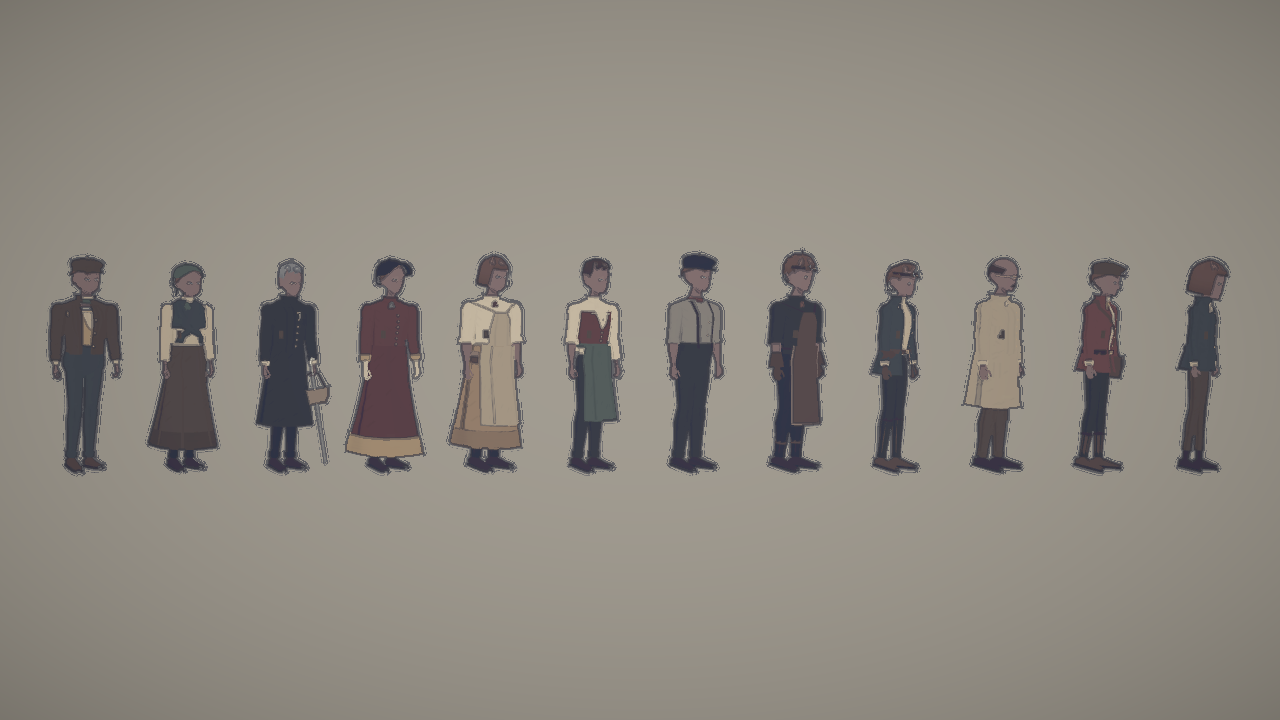
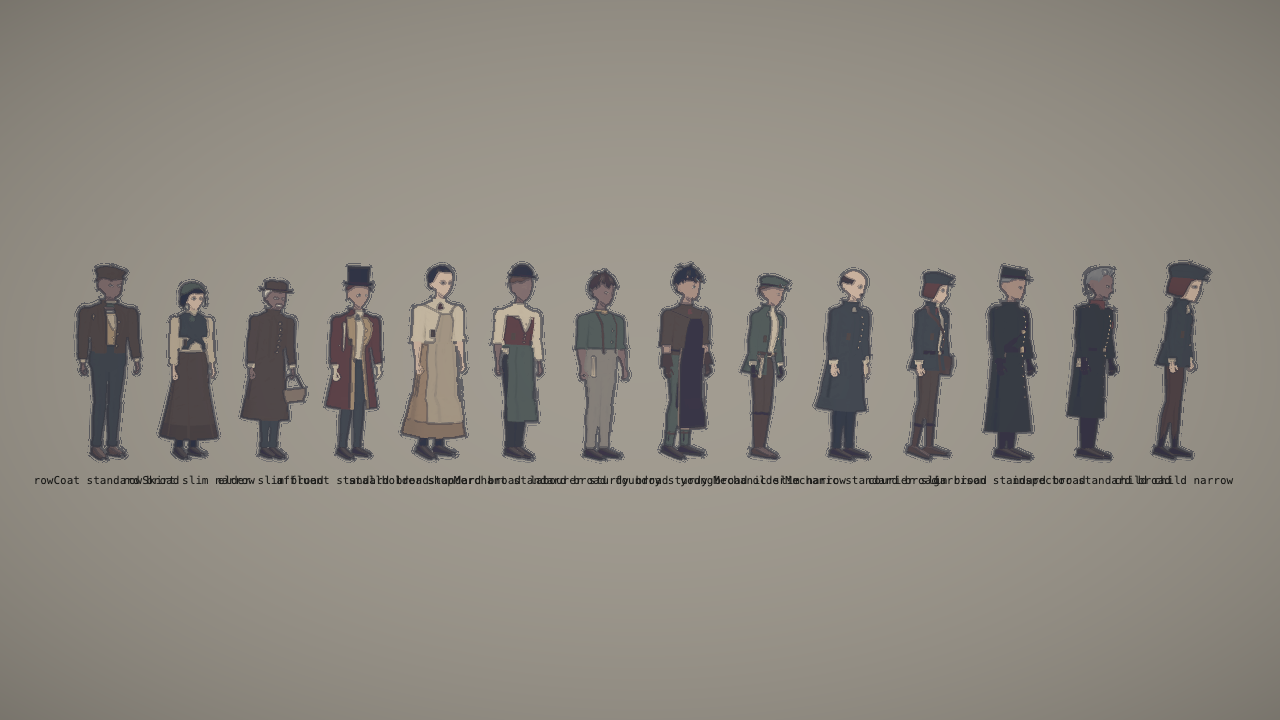
People XIII b: the bonnet takes the trim colour (it was the hair's colour and vanished), the Book brought up to what is built (materials, the wardrobe, the story table, trouser colours, the knee hinge and the bite, the 6,800 budget), and the captures regenerated — all fourteen casts, the Ordinance, 

Changed region(s): [[0.0312, 0.3361, 0.9688, 0.6722]]

diff --git a/src/world/people/figure.ts b/src/world/people/figure.ts
@@ -46,7 +46,7 @@ export function buildFigure(look: Look, opts: FigureOpts, kit: Kit) {
 
   // ---- what each cast wears
   const shirtM = col(lab ? pal.shirt : P.cloth.bone), trouM = col(pal.trousers), leather = kit.plain(P.cloth.leather, undefined, 'leather'), leatherDark = kit.plain(P.cloth.leatherDark, undefined, 'leather'), soot = sw('soot');
-  const coatM = lab ? shirtM : col(pal.coat), vestM = col(lab ? pal.shirt : pal.waistcoat), capM = fresh ? kit.cloth(pal.cap ?? pal.hat ?? pal.kepi ?? pal.helm ?? pal.kerchief ?? pal.scarf, undefined) : col(pal.cap), neckM = col(lab ? pal.kerchief : (pal.scarf ?? pal.kerchief ?? pal.shirt ?? pal.coat ?? pal.greatcoat)), ordinance = look.cast === 'garrison' || look.cast === 'inspector'; // the Ordinance wears no scarf and no mending
+  const coatM = lab ? shirtM : col(pal.coat), vestM = col(lab ? pal.shirt : pal.waistcoat), capM = fresh ? kit.cloth((look.hat === 'bonnet' ? pal.trim : undefined) ?? pal.cap ?? pal.hat ?? pal.kepi ?? pal.helm ?? pal.kerchief ?? pal.scarf, undefined) : col(pal.cap), neckM = col(lab ? pal.kerchief : (pal.scarf ?? pal.kerchief ?? pal.shirt ?? pal.coat ?? pal.greatcoat)), ordinance = look.cast === 'garrison' || look.cast === 'inspector'; // the Ordinance wears no scarf and no mending
   const bootM = lab ? leatherDark : leather, soleM = lab ? soot : leatherDark;
   const shirtR = offset(rib, .007, (_, i) => ({ w: i >= 3 && i <= 5 ? .003 : 0, f: i >= 3 && i <= 5 ? .004 : 0 }));
   const g = { aL: .3, aR: .3 }; // the coat's front edges (radians either side of centre): the gap the waistcoat shows through

diff --git a/TERRA_CHARACTER_BOOK.md b/TERRA_CHARACTER_BOOK.md
@@ -512,6 +512,27 @@ Wool, canvas, leather and metal must not read as the same stuff in different col
 darker, has harder edges and takes a small highlight. Canvas is pale and matte. Brass and steel
 take a hard highlight. Wool is the default.
 
+As built (`wardrobe.ts`, `citizens.ts` `bakeCharacter`): cloth is the stitched cloth map on the
+cloth material, every colour with a restored twin for prosperity. Leather and metal are the
+**plain material** (no cloth map: smooth, so they do not read as stitched) and carry their
+highlight in vertex colour, baked once with the geometry, so there is no extra material and no
+extra draw. Leather is its swatch at 86 % value with a narrow lighter band on the upward faces of
+its forms (a boot's instep and toe, a belt's top edge) and a lighter edge binding on aprons, flaps
+and straps; brass and steel get a small hard light spot on the upper-left of each part that looks
+toward the light. Canvas is the `canvas` swatch on cloth, with no highlight.
+
+### The wardrobe, as built
+
+`dress()` in `wardrobe.ts` builds the twelve casts that are not inline; the labourer and the row
+coat are the inline branch of `figure.ts`, and take their trade items (the leather apron, the hook,
+the pouch and the rag) from `dress()` too. Every garment is a shell off the body reference with a
+turned edge, a lining where it can be seen from inside, and its own opening. Long cloth below the
+belt (a skirt, a long coat, an apron, the foundry slab, the greatcoat) is **hinged at the knee**: see
+section 12. Under a coat only what the coat leaves open is built of the shirt (an arc, not a tube),
+a tall boot hides the trouser leg below its top, and a sleeve hides the forearm, so triangles go to
+the head, the hands, the collar and the hem. The Ordinance's colours have no restored twin and
+neither the Ordinance's cloth nor its mending is ever swapped: no scarf, no patch.
+
 ### Asymmetry
 
 One or two authored asymmetries per figure, and everything else mirrored. Choose from: a satchel
@@ -576,6 +597,11 @@ The seven gameplay archetypes keep their names and behaviour. Each maps to a set
 | guard | 12 |
 | ordinal | 13 |
 
+Built, all fourteen. Triangles at the standard seeds of the sheet: row coat 6,250, row skirt 6,328,
+elder 6,410, affluent 6,528, stallholder 5,660, shop merchant 5,958, labourer 5,408, foundry 6,486,
+young mechanic 6,796, older mechanic 5,992, courier 6,514, garrison 6,280, inspector 6,464, child
+6,190; every one at or under 6,800.
+
 Which casts appear depends on place: foundry workers at the Foundry and Cinder Row, stallholders
 and shop merchants at the Market, affluent residents on the east bank and the terraces and only as
 Terra recovers.
@@ -596,6 +622,28 @@ Every named or story-bearing person has a **fixed, authored look**, independent 
 | The masked stranger | as now, with the Weathervane mask |
 | Foundry overseer, ration warden, market beat | inspector cast, each with one distinguishing item |
 
+As built (`STORY` in `look.ts`; the spawn sites pass `look: '<name>'` to `Presentation.addWorker`,
+which takes effect under the new builder; a test holds each site to its name):
+
+| Look | Items built |
+|---|---|
+| `officer` (market-square) | tallest stature, iron hair, a book on a strap at the hip, the armband |
+| `clerk` (rook-yard) | no helm, spectacles, black sleeve guards |
+| `rookHand` (rook-yard) | labourer, a leather apron with bib and straps, a scrap hook on a belt loop |
+| `finchHand` (finch-run) | young mechanic, a brass winged valve on the right sleeve, a grease rag in the belt |
+| `embersChalker` (cinder-row) | row coat, chalk on the right cuff and fingers |
+| `embersLookout` (cinder-row) | courier with no satchel and the scarf drawn up over the mouth (hands in pockets is not built: the arms are posed by `animateLife`) |
+| `embersCourier` (cinder-row) | courier, a turquoise thread along the satchel strap |
+| `masked` (rook-yard, intro) | courier; the Weathervane mask, fitted to the skull (`mask.ts`) |
+| `overseer` (foundry-works) | inspector with a ring of brass keys |
+| `warden` (ration-line) | inspector with the book at the hip |
+| `beat` (market-square) | inspector with a baton |
+| `introGuard`, `introOrdinal` (intro) | a garrison soldier and an inspector for the opening scene |
+
+Items only a named person carries live in `Cast.story`: they are valid in a look and never dealt by the
+resolver. Every other asymmetry in a cast table is built by `wardrobe.ts` or `figure.ts`, and a test
+fails on a name that is built nowhere.
+
 ---
 
 ## 10. Colour
@@ -605,12 +653,16 @@ No colour is generated. Every colour on a person comes from a named swatch.
 - **A cast owns a palette of three or four colours and one accent.** Muted bases; the accent is
   small and sits near the chest or face.
 - **Legs and feet are darker than the chest**, but trousers, skirts and boots vary by cast. The
-  old crowd shared one pair of navy trousers and one pair of black boots.
+  old crowd shared one pair of navy trousers and one pair of black boots. The first (default)
+  trouser swatch of each cast is its own: row coat navy, elder stone, affluent slate, shop
+  merchant charcoal, labourer umber, foundry rust, young mechanic canvas, older mechanic
+  green-charcoal, courier grey-green, child leather; the Ordinance shares soot, as one outfit.
 - **Civilians:** umber, soot, oxblood, grey-green, bone, slate, dull mustard.
 - **Trades:** foundry leather and soot with a rust kerchief; market ochre, burgundy and cream;
   mechanics slate, canvas and brass.
 - **Ordinance:** green-charcoal, black leather, oxblood, bone. One outfit. The Ordinance never
-  dresses up for prosperity and never weathers into patches.
+  dresses up for prosperity and never weathers into patches: its swatches have no restored twin and
+  it has no mending patch (checked at stage 0 and 5 on the prosperity sheet).
 - **Embers:** Terra's own turquoise and ivory, as a thread or a ribbon and nothing larger.
 - **District** shifts the mix, not the swatches: the Lowworks and Cinder Row are sootier, the
   Market warmer, the east bank cleaner and cooler.
@@ -693,6 +745,27 @@ These are parameter sets on the one gait, not new systems.
 The existing stoop of early Terra and the registers of the Ordinance (halt, scrutiny) sit on top
 of these.
 
+### Long cloth and the knee hinge
+
+A skirt, a long coat, an apron and the foundry slab are built in two parts (`HEM_Y` in
+`wardrobe.ts`, the child group `hem` of `tails`, exposed on the figure as `hem`): from the belt to
+the knee, no deeper front to back than a lap needs, closed at its end by a dome; and from the knee
+to the hem, a bell. `animateLife` turns `tails` about the waist when the figure sits (and a little
+in a stride); it then counter-rotates `hem` about the knee so the lower part hangs from the knees
+(`hem.rotation.x = -tails.rotation.x`, in a stride 0.6 of it, so the hem trails), and narrows it
+front to back to 0.45 so it falls between the knees and does not run under the thighs through the
+seat. The old figures have no `hem`, and their pose is unchanged. Aprons open less in a stride
+than coats do (their drape length is capped at 0.5), and the greatcoat's depth is floored at 0.27
+so it stays a column.
+
+### The bite
+
+The new head's mouth is about 9 cm lower than the old one, so for a figure from the new builder the
+eating stroke (`activity === 'eat'`) stops 0.55 rad short at the shoulder, folds 0.7 rad more at
+the elbow and comes in with the shoulder width (`citizen-life.ts`, marked by `group.userData.next`).
+Solved with the sheet's `probe()`: the grip lands within 2 cm of the mouth's height and about 9 cm
+off its front, as the old pose does.
+
 ### Poses that must hold
 
 Seated, with thighs level. Arm raised overhead. Both arms forward with a load. Hand to mouth. Deep
@@ -752,11 +825,11 @@ profession read · fit with Terra.
 
 The rebuild must not buy quality with geometry.
 
-- **Triangles:** no more than the old average of about 5,000 for a figure, about 6,500 for the
-  most dressed. Spend them on the head, the hands, the collar and the hem, not on smooth tubes.
+- **Triangles:** no more than the old average of about 5,000 for a figure, about 6,800 for the
+  most dressed (the cap the cast is held to; see section 9 for the table). Spend them on the head, the hands, the collar and the hem, not on smooth tubes.
 - **Materials:** the same four per figure, shared across the crowd. No per-person materials.
 - **Draws:** the crowd stays batched; the number of draws does not grow with the population.
-- **Geometry is shared.** A part variant is built once and reused by everyone who wears it.
+- **Geometry is shared.** A part variant is built once and reused by everyone who wears it. The loft cache shares a part by key while a figure is assembled; `bakeCharacter` then merges each figure's parts per material, so a baked figure's three meshes (cloth, plain, face) are its own geometry, and `CrowdBatch` batches them by material (one material per mesh, the face material flagged `faceAtlas`).
 - **Distance:** parts under about two pixels (buttons, buckles, thin straps) are dropped first.
   The silhouette is the same at every distance.
 
